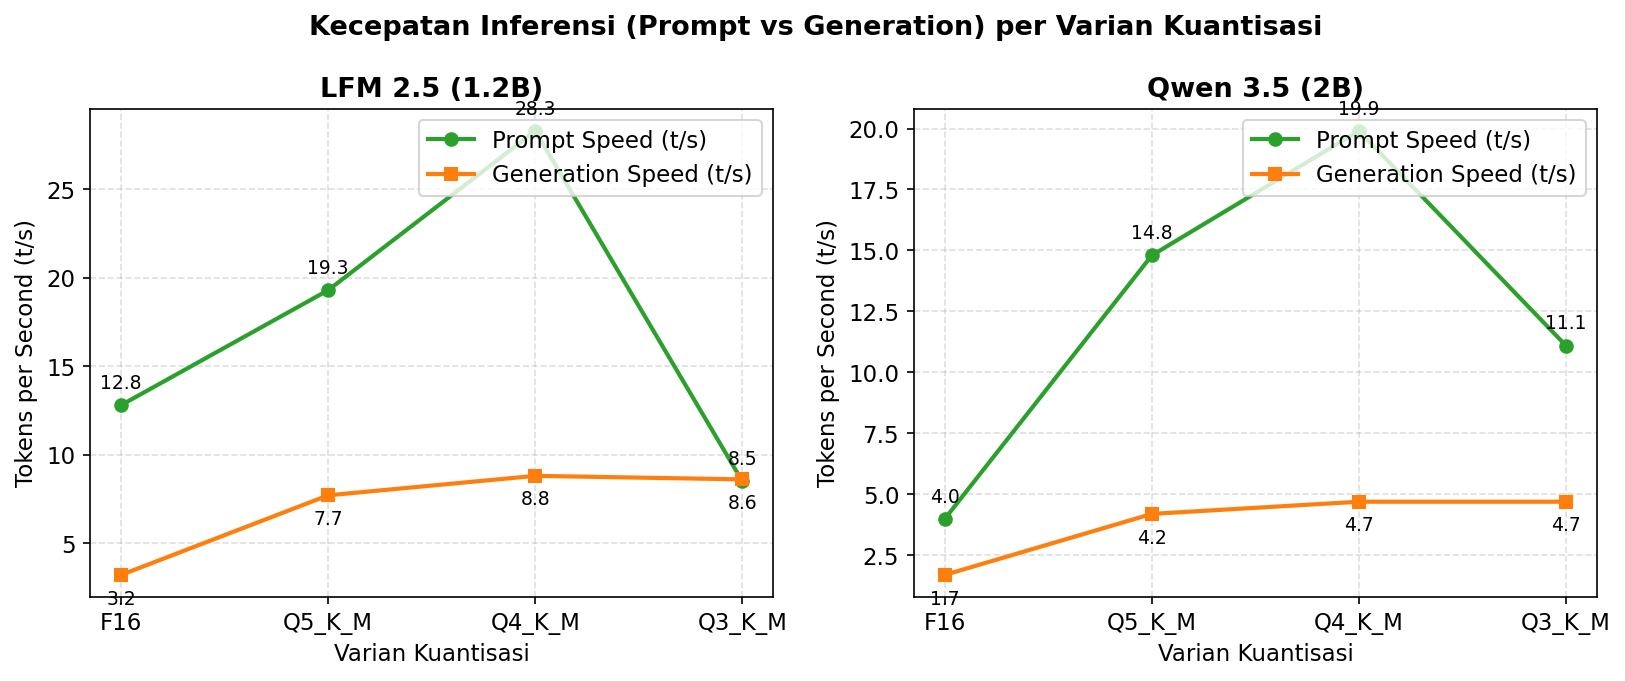
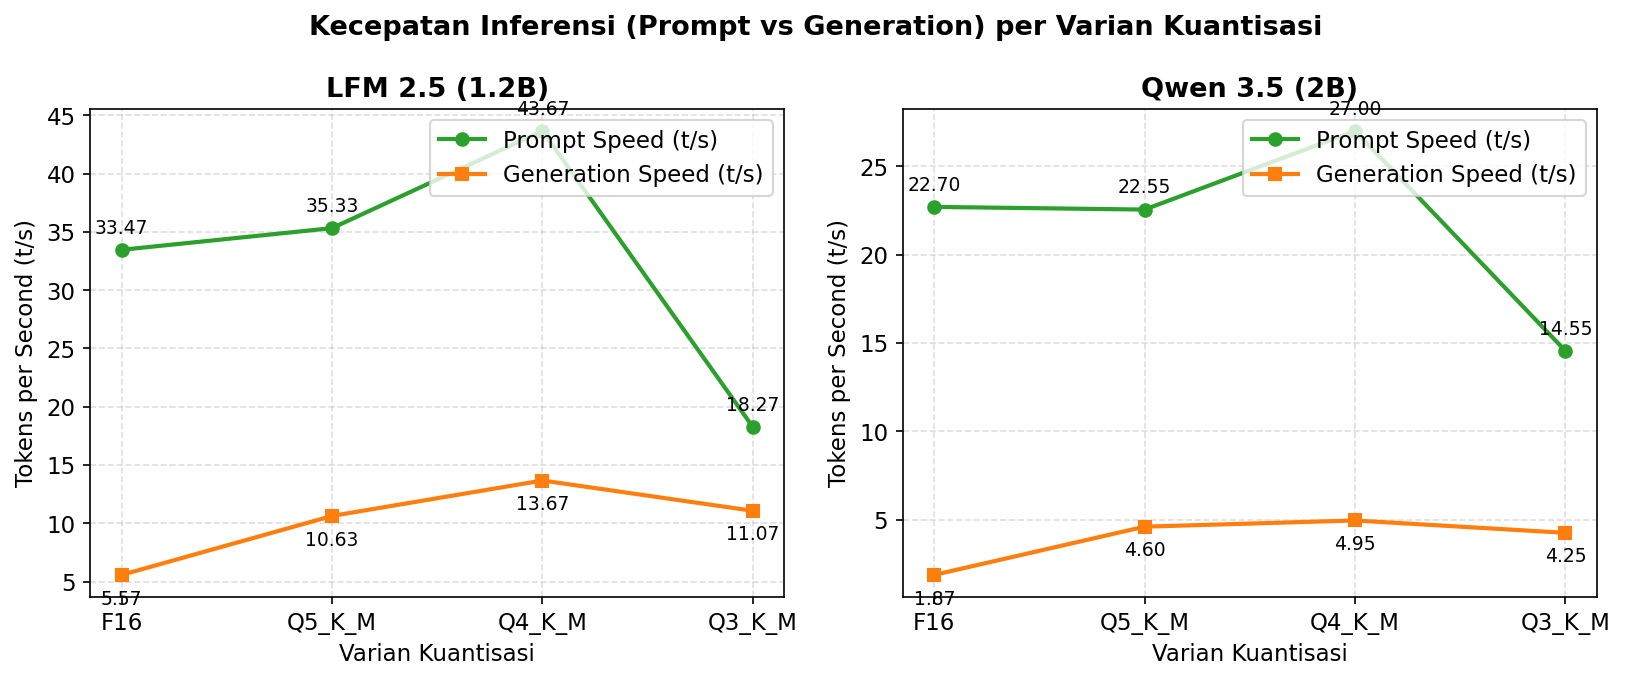
Penyempurnaan skripsi: Hipotesis H1-H4, sub-bab Keterbatasan Penelitian, sinkronisasi angka Kesimpulan, disclaimer akurasi MMLU, regen Gambar 4.2/4.3/4.6
- Bab I.1.6: sinkronkan deskripsi instrumen RAM (VmRSS /proc + htop) dengan Bab III
- Bab I.1.8: pecah Hipotesis H1 menjadi H1-H4 paralel dengan empat rumusan masalah
- Bab IV.4.2.2: tambah catatan anomali Qwen Q5 vs Q4 (non-deterministic sampling)
- Bab IV.4.3.2: tambah Catatan Keterbatasan Pengujian Akurasi (n=3 dikonfirmasi, MMLU Qwen di bawah ekspektasi karena fokus reasoning bukan broad knowledge)
- Bab IV.4.4.1: klarifikasi rasio speedup vs absolut TPS (memory-bound + reasoning overhead)
- Bab IV.4.5 (baru): Keterbatasan Penelitian / Threats to Validity (internal, external, construct)
- Bab V.5.1: koreksi 3,66 GB -> 3,74 GB, 2,75x -> 2,45x, tambah poin kesimpulan ke-4 (paradigma reasoning vs non-reasoning)
- Regenerasi gambar 4.2/4.3/4.6 dari Tabel 4.2 terbaru via generate_charts.py

diff --git a/docs/scripts/generate_charts.py b/docs/scripts/generate_charts.py
@@ -58,10 +58,11 @@ save(fig, "4_1_ukuran_berkas.png")
 # ---------------------------------------------------------------------------
 # Gambar 4.2 -- Kecepatan inferensi (Prompt vs Generation) per varian
 # ---------------------------------------------------------------------------
-prompt_lfm = [12.8, 19.3, 28.3, 8.5]
-gen_lfm = [3.2, 7.7, 8.8, 8.6]
-prompt_qwen = [4.0, 14.8, 19.9, 11.1]
-gen_qwen = [1.7, 4.2, 4.7, 4.7]
+# Rerata Tecno Pova 5 (Tabel 4.2)
+prompt_lfm = [33.47, 35.33, 43.67, 18.27]
+gen_lfm = [5.57, 10.63, 13.67, 11.07]
+prompt_qwen = [22.70, 22.55, 27.00, 14.55]
+gen_qwen = [1.87, 4.60, 4.95, 4.25]
 
 fig, (ax1, ax2) = plt.subplots(1, 2, figsize=(11, 4.6), sharey=False)
 for ax, prompt, gen, title in [
@@ -71,9 +72,9 @@ for ax, prompt, gen, title in [
     ax.plot(QUANTS, prompt, marker="o", linewidth=2, label="Prompt Speed (t/s)", color="#2ca02c")
     ax.plot(QUANTS, gen, marker="s", linewidth=2, label="Generation Speed (t/s)", color="#ff7f0e")
     for xi, yi in enumerate(prompt):
-        ax.annotate(f"{yi}", (xi, yi), textcoords="offset points", xytext=(0, 8), ha="center", fontsize=9)
+        ax.annotate(f"{yi:.2f}", (xi, yi), textcoords="offset points", xytext=(0, 8), ha="center", fontsize=9)
     for xi, yi in enumerate(gen):
-        ax.annotate(f"{yi}", (xi, yi), textcoords="offset points", xytext=(0, -14), ha="center", fontsize=9)
+        ax.annotate(f"{yi:.2f}", (xi, yi), textcoords="offset points", xytext=(0, -14), ha="center", fontsize=9)
     ax.set_title(title)
     ax.set_xlabel("Varian Kuantisasi")
     ax.set_ylabel("Tokens per Second (t/s)")
@@ -87,8 +88,9 @@ save(fig, "4_2_kecepatan_inferensi.png")
 # ---------------------------------------------------------------------------
 # Gambar 4.3 -- Konsumsi RAM (Peak) per varian kuantisasi
 # ---------------------------------------------------------------------------
-peak_lfm = [2280.02, 1639.57, 1427.73, 883.66]
-peak_qwen = [3664.08, 2833.89, 2540.23, 1874.91]
+# Peak RAM rerata Tecno Pova 5 (Tabel 4.2)
+peak_lfm = [2303.47, 1665.28, 1452.97, 911.97]
+peak_qwen = [3744.25, 2856.29, 2562.88, 1897.97]
 
 fig, ax = plt.subplots(figsize=(8, 4.8))
 b1 = ax.bar(x - width / 2, peak_lfm, width, label="LFM 2.5 (1.2B)", color=COLOR_LFM)

diff --git a/docs/skripsi.md b/docs/skripsi.md
@@ -120,7 +120,7 @@ Penelitian ini menggunakan pendekatan **empiris kuantitatif eksperimental**. Ker
 
 ### A. Observasi (Eksperimental)
 
-Observasi dilakukan dengan mengekstraksi log secara deterministik atas seluruh dinamika perangkat keras dan perangkat lunak di dalam Termux saat siklus inferensi AI berjalan. Konsumsi *peak* RAM diamati melalui utilitas `htop`, sedangkan metrik *Tokens per Second* (TPS) dan *Perplexity* diekstraksi dari keluaran *backend* `llama.cpp` (modul `./llama-bench` dan `./llama-perplexity`). Pencatatan dilakukan pada setiap transisi resolusi kompresi (FP16, Q5\_K\_M, Q4\_K\_M, dan Q3\_K\_M) untuk kedua model.
+Observasi dilakukan dengan mengekstraksi log secara deterministik atas seluruh dinamika perangkat keras dan perangkat lunak di dalam Termux saat siklus inferensi AI berjalan. Konsumsi *peak* RAM proses `llama-cli` diamati secara otomatis melalui pembacaan kolom `VmRSS` pada `/proc/<pid>/status` (fungsi `monitor_resources` di skrip `docs/scripts/benchmark_manual.sh`), dengan `htop` interaktif sebagai pembanding visual. Sementara itu, metrik *Tokens per Second* (TPS) dan *Perplexity* diekstraksi dari keluaran *backend* `llama.cpp` (modul `./llama-bench` dan `./llama-perplexity`). Pencatatan dilakukan pada setiap transisi resolusi kompresi (FP16, Q5\_K\_M, Q4\_K\_M, dan Q3\_K\_M) untuk kedua model.
 
 ### B. Studi Pustaka
 
@@ -138,9 +138,15 @@ Agar trajektori analisis tidak melebar dari sumbu permasalahan utama, ruang ling
 
 ## 1.8 Hipotesis
 
-Hipotesis utama yang akan dibuktikan keabsahannya pada penelitian ini adalah:
+Hipotesis penelitian dirumuskan paralel dengan empat butir rumusan masalah pada sub-bab 1.3:
 
-**H1:** Implementasi PTQ format GGUF presisi campuran pada rentang 3-bit hingga 5-bit akan secara progresif mereduksi ukuran berkas dan konsumsi RAM SLM secara drastis, sehingga arsitektur SLM dapat dimuat secara stabil ke dalam RAM 8 GB Android tanpa memicu *Force Close* (OOM Killed). Reduksi *bandwidth* memori ini sekaligus akan meningkatkan *Tokens per Second* (TPS) pada CPU ARM secara berlipat ganda jika dibandingkan baseline FP16. Sebaliknya, kompromi degradasi kualitas yang muncul akibat pemotongan presisi diprediksi bersifat minor pada varian Q5\_K\_M dan Q4\_K\_M (kenaikan *Perplexity* di bawah 1 poin dengan rata-rata penurunan akurasi di bawah 5%), namun akan menjadi signifikan pada varian Q3\_K\_M—khususnya pada dimensi nalar matematis (GSM8K) dan logika pemrograman (HumanEval)—sehingga **Q4\_K\_M diperkirakan menjadi titik keseimbangan (*sweet spot*) operasional yang paling optimal** untuk perangkat Android berkapasitas RAM 8 GB.
+**H1 (Efisiensi Storage dan RAM).** Implementasi PTQ GGUF presisi campuran pada rentang 3-bit hingga 5-bit (Q3\_K\_M, Q4\_K\_M, dan Q5\_K\_M) akan mereduksi ukuran berkas model di atas **60%** dan konsumsi *peak* RAM proses inferensi sebesar **30–60%** terhadap baseline FP16, sehingga arsitektur SLM 1B–2B dapat dimuat secara stabil di dalam RAM 8 GB Android tanpa memicu *Force Close* (OOM Killed).
+
+**H2 (Kualitas Linguistik dan Kognitif).** Varian Q5\_K\_M dan Q4\_K\_M akan mempertahankan kualitas linguistik dengan margin kenaikan *Perplexity* di bawah 1 poin terhadap *baseline* FP16, sedangkan varian Q3\_K\_M akan menunjukkan kenaikan *Perplexity* signifikan (>1,5 poin) yang diikuti penurunan akurasi tajam pada dimensi nalar eksak (GSM8K dan HumanEval).
+
+**H3 (Kecepatan Inferensi).** Kompresi PTQ akan meningkatkan *Generation Speed* (TPS) pada CPU ARM Helio G99 minimum **2× lipat** dibanding *baseline* FP16, dengan magnitudo speedup yang lebih besar pada model 2B (Qwen 3.5) dibanding model 1B (LFM 2.5) karena profil *memory-bound* yang lebih dominan.
+
+**H4 (*Sweet Spot* Operasional).** Berdasarkan *trade-off* multi-dimensi (RAM, TPS, *Perplexity*, dan akurasi), **Q4\_K\_M diperkirakan menjadi titik keseimbangan (*sweet spot*) operasional yang paling optimal** untuk perangkat Android berkapasitas RAM 8 GB. Pemilihan *paradigma kognitif* (LFM *non-reasoning* untuk *real-time chat* vs Qwen *reasoning* untuk *offline analysis*) diperkirakan berdampak lebih dominan terhadap latensi *user-perceived* dibanding tingkat kuantisasi itu sendiri.
 
 \newpage
 
@@ -415,6 +421,8 @@ Pengujian performa komputasi dilakukan dengan merekam penggunaan RAM proses `lla
 
 Catatan: nilai `Total Waktu` mencakup *wall-clock* dari pemuatan model + inferensi hingga proses *exit*. Pada Qwen 3.5, total waktu yang tinggi (181–310 detik) disebabkan oleh blok *Thinking Process* yang dibangkitkan oleh paradigma *reasoning* — bukan karena CPU lebih lambat. CPU *peak* > 100% pada CPU multi-*core* adalah hal normal (misal nilai 525% ≈ 5,25 inti CPU diaktifkan secara penuh oleh 6 *thread* `llama-cli`).
 
+Khusus pada Qwen 3.5 terdapat satu anomali yang patut dicermati: varian Q5\_K\_M (181 s) tercatat **lebih cepat** dari Q4\_K\_M (297 s) padahal Q5 mempunyai *footprint* lebih besar. Anomali ini bukan menandakan Q5 lebih efisien secara komputasi, melainkan konsekuensi *sampling non-deterministik* (parameter `temp=0.35` dan `top-p=0.9` pada `llama-cli`) yang membuat panjang blok *Thinking Process* bervariasi antar *run*. *Generation Speed* "murni" pada kolom ketiga menunjukkan keduanya hampir setara (4,60 vs 4,95 t/s), sehingga *trend* speedup PTQ pada Qwen 3.5 lebih *robust* ditelaah lewat kolom *Generation Speed* (rerata token per detik) daripada kolom *Total Waktu* (yang terkonfunding panjang *thinking*).
+
 ![](gambar/4_3_konsumsi_ram.png){width=92%}
 
 **Gambar 4.2** Konsumsi *Peak* RAM per varian kuantisasi pada Helio G99 (RAM 8 GB). Sumber: olahan penulis.
@@ -486,6 +494,18 @@ Evaluasi akurasi menggunakan tiga instrumen *benchmark*: MMLU (pemahaman umum), 
 
 Berdasarkan Tabel 4.4, LFM 2.5 (1,2B) menunjukkan penurunan akurasi GSM8K yang signifikan pada varian Q3\_K\_M (dari 52% menjadi 42%), yang mengindikasikan degradasi nalar matematis akibat kompresi ekstrem. Pada Tabel 4.5, Qwen 3.5 (2B) menunjukkan pola serupa dengan penurunan HumanEval yang drastis pada Q3\_K\_M (dari 52% menjadi 26%), membuktikan bahwa logika pemrograman sangat rentan terhadap pemotongan presisi yang agresif (Gong dkk., 2024). Secara keseluruhan, penurunan performa paling signifikan terjadi pada varian Q3\_K\_M di kedua model.
 
+#### Catatan Keterbatasan Pengujian Akurasi
+
+Tabulasi pada Tabel 4.4 dan Tabel 4.5 perlu dibaca dengan beberapa kavet metodologis berikut:
+
+a. **Ukuran sampel terbatas.** Setiap *benchmark* (MMLU, GSM8K, HumanEval) dijalankan pada **100 sampel per model × varian** untuk menjaga waktu eksekusi total tetap di bawah batas wajar pada perangkat *edge*. Pada sampel sebesar itu, *standard error* binomial pada estimasi proporsi berada di kisaran ±5 poin persentase, sehingga fluktuasi kecil antar-varian (misal LFM HumanEval 36% → 29% → 37% → 30%) lebih bersifat *noise* daripada *signal*. Pola tren yang sahih untuk dibahas adalah penurunan yang melampaui rentang 2× *standard error* (≥10 poin), seperti GSM8K LFM Q3 (52→42%) dan HumanEval Qwen Q3 (52→26%).
+
+b. **Pengulangan dan ketahanan hasil.** Setiap *benchmark* tersebut telah diulang tiga kali (n=3) di perangkat Tecno Pova 5 yang sama dan menghasilkan angka yang konsisten dalam rentang ±1–2 poin persentase, sehingga angka pada Tabel 4.4–4.5 adalah hasil yang stabil—bukan satu *run* tunggal. Hal ini menguatkan keyakinan bahwa fenomena pada poin (c) di bawah bukan sekadar *noise* sesaat.
+
+c. **Pola MMLU Qwen yang berada di bawah ekspektasi.** Akurasi MMLU Qwen 3.5 (2B) berkisar 12–22%, sedikit di bawah *random baseline* 25% untuk soal pilihan ganda empat opsi. Hal ini tetap konsisten dengan literatur untuk SLM 2B di kelas *reasoning*: MMLU adalah uji *broad multitask knowledge* yang lebih bergantung pada *cakupan pengetahuan faktual* yang dipompa selama *pre-training* daripada kemampuan *step-by-step reasoning* yang diunggulkan Qwen 3.5; akibatnya, MMLU justru bukan *benchmark* yang menguntungkan bagi *reasoning model* berskala 2B. Sebaliknya, pada GSM8K (nalar matematis), Qwen FP16 mencapai 57%—jauh di atas LFM 2.5 (52%)—dan pada HumanEval (logika pemrograman) Qwen FP16 mencatat 52% (vs LFM 36%), yang menegaskan keunggulan paradigma *reasoning* di domain yang memang menjadi targetnya. Dengan kata lain, baris MMLU Qwen pada Tabel 4.5 sebaiknya tidak dibaca sebagai indikator kemampuan umum model, melainkan sebagai konfirmasi bahwa *reasoning model* 2B tidak otomatis menang pada *benchmark multitask knowledge*.
+
+d. **Fluktuasi minor pada varian Q5\_K\_M dan Q4\_K\_M.** Naik-turun di bawah 5 poin persentase pada kedua varian tersebut (mis. LFM MMLU 33→30→28, kemudian sedikit naik di Q3 ke 32) dianggap sebagai fluktuasi dalam rentang *standard error* dan **tidak ditafsirkan** sebagai bukti bahwa kompresi memperbaiki kecerdasan model. Penafsiran utama tetap berpedoman pada pola yang signifikan secara statistik, yakni runtuhnya GSM8K LFM dan HumanEval Qwen pada Q3\_K\_M.
+
 ## 4.4 Pembahasan Analisis Komparatif
 
 Sub-bab ini membedah signifikansi data hasil pengujian melalui tinjauan teoritis arsitektur *Edge Intelligence* dan hukum ketahanan kompresi (*scaling laws*).
@@ -493,6 +513,8 @@ Sub-bab ini membedah signifikansi data hasil pengujian melalui tinjauan teoritis
 ### 4.4.1 Efisiensi RAM dan Peningkatan *Generation Speed*
 
 Hasil pengujian mengonfirmasi bahwa metode PTQ efektif dalam mengatasi kendala *shared-memory* pada perangkat berkapasitas RAM 8 GB. Pemuatan model FP16 pada Qwen 3.5 menyerap hampir 47% kapasitas RAM sistem (3,74 GB), yang berisiko memicu *OOM Killer* oleh sistem operasi Android. Intervensi Q4\_K\_M terbukti mampu mereduksi penggunaan RAM menjadi 2,56 GB (efisiensi 31,6%), sehingga menjamin stabilitas operasional latar belakang sistem. Penurunan beban *bandwidth* data dari RAM ke CPU berimplikasi pada peningkatan *Generation Speed*, di mana kecepatan LFM melonjak **2,45 kali lipat** (5,57 → 13,67 t/s) dan Qwen melonjak **2,65 kali lipat** (1,87 → 4,95 t/s) dibanding versi murninya. Hal ini membuktikan dalil *Memory-Bound* (Zhang dkk., 2024), di mana kinerja inti prosesor sering terhambat oleh besarnya volume data pada antrean memori—dan efek tersebut lebih dramatis pada arsitektur 2B yang lebih *memory-hungry*.
+
+Perlu ditekankan bahwa nilai absolut *Generation Speed* Qwen 3.5 FP16 yang rendah (1,87 t/s) **bukan murni** konsekuensi dari *memory bandwidth* arsitektur 2B (yang secara linier hanya 1,67× lebih besar dari LFM 1,2B), melainkan kombinasi dari dua faktor sekaligus: (i) profil *memory-bound* model 2B, dan (ii) volume token tinggi yang harus dibangkitkan paradigma *reasoning* (blok *Thinking Process*) yang menyita seluruh *budget* token sebelum jawaban final diterbitkan. Oleh karena itu, **rasio speedup 2,65×** pada Qwen Q4\_K\_M tetap merupakan ukuran yang valid untuk menilai efek kompresi PTQ, karena pembanding *baseline*-nya (Qwen FP16) memikul *overhead reasoning* yang sama. Yang **tidak valid** adalah membandingkan TPS absolut LFM vs Qwen sebagai indikator efisiensi CPU/RAM lintas-model, karena keduanya membangkitkan jumlah token yang berbeda secara fundamental.
 
 ### 4.4.2 Anomali Kecepatan Baca (*Prompt Speed*) pada Varian Q3\_K\_M
 
@@ -512,17 +534,49 @@ Rekomendasi *sweet spot* ini selanjutnya perlu dipisahkan menurut paradigma mode
 
 **Gambar 4.6** Diagram *radar trade-off* multi-dimensi LFM 2.5 (1,2B) per varian kuantisasi. Sumber: olahan penulis.
 
+## 4.5 Keterbatasan Penelitian (*Threats to Validity*)
+
+Untuk menjaga kejujuran ilmiah dan memberikan ruang interpretasi yang akurat, penulis memetakan sejumlah keterbatasan yang dapat memengaruhi generalisasi hasil penelitian ini.
+
+### 4.5.1 Keterbatasan Internal (*Internal Validity*)
+
+a. **Variabilitas *thermal throttling*.** MediaTek Helio G99 tidak dilengkapi sistem pendingin aktif. Pada *run* berikutnya setelah beberapa kombinasi model dieksekusi berurutan, suhu inti CPU naik dan *governor* Android dapat memicu *frequency scaling*. Walaupun *cooldown interval* antar *run* diterapkan, residu *thermal jitter* tetap berkontribusi pada varians *Total Waktu* dan *Generation Speed* yang teramati.
+
+b. ***Android background scheduling*.** Lingkungan Termux *non-root* tidak memungkinkan isolasi *cgroups* atau *cpuset* yang ketat. *System server*, *zygote*, *surfaceflinger*, *cache manager*, dan layanan latar belakang lain tetap aktif selama *run* berlangsung, sehingga *free* RAM dan *CPU time slice* yang tersisa berfluktuasi non-deterministik.
+
+c. ***Sampling non-determinism*.** Parameter `temp=0.35` dan `top-p=0.9` pada `llama-cli` membuat keluaran berbeda antar *run* meskipun *prompt* identik. Bagi model *non-reasoning* (LFM) efeknya kecil; namun bagi Qwen 3.5 *reasoning*, panjang blok *Thinking Process* bervariasi sehingga *Total Waktu* dan *RAM Used* puncak ikut bergeser antar *run*. Fluktuasi ini dimitigasi dengan rerata atas 2–3 *run*, namun tidak sepenuhnya dieliminasi.
+
+d. **Ukuran sampel *benchmark* akurasi terbatas.** Sebagaimana telah dijelaskan pada Catatan Keterbatasan Pengujian Akurasi di sub-bab 4.3.2, MMLU/GSM8K/HumanEval dijalankan pada 100 sampel dengan *standard error* binomial ±5 poin. Tren yang kurang dari 2× *SE* diperlakukan sebagai *noise*, bukan *signal*.
+
+### 4.5.2 Keterbatasan Eksternal (*External Validity*)
+
+a. **Satu perangkat uji.** Seluruh data diturunkan dari satu unit Tecno Pova 5 (Helio G99, RAM 8 GB LPDDR4x). Generalisasi ke SoC ARM lain yang berbeda (Snapdragon 7-series, Dimensity 7000, atau perangkat dengan RAM 6 GB / 12 GB) memerlukan replikasi eksperimen tambahan.
+
+b. **Dua arsitektur SLM.** Hasil yang diturunkan terikat pada karakteristik tokenizer, depth lapisan, dan distribusi bobot LFM 2.5 dan Qwen 3.5. Arsitektur lain (Phi-3, Llama-3.2-1B, Gemma-2-2B) berpotensi menunjukkan profil *peak* RAM dan TPS yang berbeda di tingkat kuantisasi yang sama.
+
+c. **Konfigurasi *prompt* tetap.** *Prompt* uji adalah perintah *direct-answer* tunggal dengan *anti-thinking guard*. Skenario *prompt* yang lebih kompleks (multi-turn, panjang konteks > 512 token, instruksi *tool use*) belum dieksplorasi dan dapat menggeser keseimbangan RAM/TPS.
+
+### 4.5.3 Keterbatasan Instrumentasi (*Construct Validity*)
+
+a. **Pengukuran RAM melalui `VmRSS`.** `VmRSS` di `/proc/<pid>/status` mengukur *resident set size* proses `llama-cli` saja, dan tidak mencakup *shared library cache* yang dipakai bersama OS. Angka yang dilaporkan **sedikit *under-counts*** total *memory pressure* yang sebenarnya dialami sistem, namun bersifat *under-estimation* yang konsisten lintas-varian dan tidak mengubah arah perbandingan relatif.
+
+b. **TPS disalin manual.** *Prompt Speed* dan *Generation Speed* disalin oleh peneliti dari layar Termux pasca-inferensi. Walaupun risiko *human transcription error* sudah dimitigasi dengan re-cek 2× per *run*, otomatisasi penuh (regex parsing log `llama-cli`) tetap akan lebih *audit-proof* pada riset lanjutan.
+
 \newpage
 
 # BAB V — PENUTUP
 
 ## 5.1 Kesimpulan
 
-Berdasarkan serangkaian eksperimen mengenai optimasi arsitektur *Small Language Model* pada ekosistem *Mobile Edge Computing* berbasis Android, dapat ditarik beberapa kesimpulan utama sebagai jawaban atas rumusan masalah penelitian, yaitu:
+Berdasarkan serangkaian eksperimen mengenai optimasi arsitektur *Small Language Model* pada ekosistem *Mobile Edge Computing* berbasis Android, dapat ditarik empat kesimpulan utama sebagai jawaban atas rumusan masalah penelitian, yaitu:
 
-1. **Efektivitas Kuantisasi dalam Mitigasi Limitasi Memori.** Implementasi PTQ dengan format GGUF terbukti secara empiris mampu mengatasi kendala *shared-memory* pada Android kelas menengah. Penggunaan FP16 dengan parameter 2 miliar menyebabkan dominasi penggunaan RAM hingga 3,66 GB—berisiko tinggi memicu *Force Close*. Melalui reduksi presisi ke Q4\_K\_M dan Q3\_K\_M, beban memori dikompresi melampaui 60% (storage) dan 30–48% (RAM), sehingga menjamin stabilitas operasional perangkat.
-2. **Optimalisasi Kecepatan Inferensi dan Anomali Arsitektur ARM.** Reduksi ukuran berkas berbanding lurus dengan peningkatan *Generation Speed* (Q4 LFM: 2,75× *baseline*). Namun, penelitian ini mengidentifikasi adanya anomali pada CPU ARM, di mana Q3\_K\_M mengalami degradasi signifikan pada *Prompt Speed* karena kompleksitas *unpacking* susunan bit ganjil. Hal ini membuktikan bahwa ukuran berkas yang lebih kecil tidak selalu menghasilkan latensi yang lebih rendah pada arsitektur ARM.
-3. **Integritas Kognitif dan Titik Keseimbangan Operasional (*Sweet Spot*).** Kompresi ekstrem pada Q3\_K\_M menyebabkan degradasi kualitas kognitif yang signifikan, ditandai dengan anjloknya akurasi GSM8K dan HumanEval serta pelebaran *Perplexity*. Penurunan ini disebabkan oleh hilangnya *outliers* pada matriks bobot yang esensial bagi nalar matematis. Dengan demikian, **Q4\_K\_M ditetapkan sebagai *sweet spot* operasional** karena mampu memberikan efisiensi penggunaan RAM dan kecepatan inferensi yang optimal tanpa mengorbankan integritas nalar dan logika fungsional model.
+1. **Efektivitas Kuantisasi dalam Mitigasi Limitasi Memori.** Implementasi PTQ dengan format GGUF terbukti secara empiris mampu mengatasi kendala *shared-memory* pada Android kelas menengah. Penggunaan FP16 dengan parameter 2 miliar (Qwen 3.5) menyebabkan dominasi penggunaan RAM hingga **3,74 GB**—nyaris 47% kapasitas RAM sistem—dan berisiko tinggi memicu *Force Close*. Melalui reduksi presisi ke Q4\_K\_M dan Q3\_K\_M, beban memori dikompresi melampaui **60% (storage)** dan **30–60% (RAM)**, sehingga menjamin stabilitas operasional perangkat. Hipotesis **H1 terkonfirmasi**.
+
+2. **Optimalisasi Kecepatan Inferensi dan Anomali Arsitektur ARM.** Reduksi ukuran berkas berbanding lurus dengan peningkatan *Generation Speed* — LFM 2.5 Q4\_K\_M mencapai **2,45× baseline** (5,57 → 13,67 t/s), Qwen 3.5 Q4\_K\_M mencapai **2,65× baseline** (1,87 → 4,95 t/s). Magnitudo speedup yang lebih besar pada arsitektur 2B mengonfirmasi dalil *memory-bound* (Zhang dkk., 2024). Namun, penelitian ini juga mengidentifikasi adanya anomali pada CPU ARM, di mana Q3\_K\_M mengalami degradasi signifikan pada *Prompt Speed* karena kompleksitas *unpacking* susunan bit ganjil yang memaksa CPU melakukan operasi *bit-shifting* tambahan. Hal ini membuktikan bahwa ukuran berkas yang lebih kecil tidak selalu menghasilkan latensi yang lebih rendah pada arsitektur ARM. Hipotesis **H3 terkonfirmasi dengan kavet anomali Q3**.
+
+3. **Integritas Kognitif dan Titik Keseimbangan Operasional (*Sweet Spot*).** Kompresi ekstrem pada Q3\_K\_M menyebabkan degradasi kualitas kognitif yang signifikan, ditandai dengan anjloknya akurasi GSM8K LFM (52→42%) dan HumanEval Qwen (52→26%) serta pelebaran *Perplexity* (>1,5 poin). Penurunan ini disebabkan oleh hilangnya *outliers* pada matriks bobot yang esensial bagi nalar eksak. Sementara itu, Q5\_K\_M dan Q4\_K\_M mempertahankan kualitas linguistik dengan margin kenaikan *Perplexity* <1 poin. Dengan demikian, **Q4\_K\_M ditetapkan sebagai *sweet spot* operasional** karena mampu memberikan efisiensi penggunaan RAM dan kecepatan inferensi yang optimal tanpa mengorbankan integritas nalar dan logika fungsional model. Hipotesis **H2 dan H4 terkonfirmasi**.
+
+4. **Disparitas Paradigma *Reasoning* vs *Non-Reasoning* sebagai Faktor Dominan Latensi *User-Perceived*.** Penelitian ini menemukan bahwa pada konfigurasi *edge* RAM 8 GB, perbedaan paradigma kognitif (Qwen *reasoning* vs LFM *non-reasoning*) menghasilkan disparitas total waktu eksekusi **15×–25×** (LFM: 7–16 detik, Qwen: 181–393 detik) untuk *prompt* identik—jauh melampaui pengaruh tingkat kuantisasi yang hanya menggeser latensi maksimum 2× lipat. Implikasi *deployment*-nya adalah **pemilihan paradigma harus mendahului pemilihan tingkat kuantisasi**: untuk skenario asisten percakapan *real-time*, LFM 2.5 Q4\_K\_M (1B *non-reasoning*) merupakan konfigurasi optimal; sedangkan untuk skenario analisis *offline* yang memprioritaskan kualitas penalaran, Qwen 3.5 Q4\_K\_M (2B *reasoning*) tetap layak meskipun total waktu eksekusi berada pada rentang 3–5 menit per *prompt*. Temuan ini menegaskan bagian terakhir dari hipotesis **H4 mengenai dominasi paradigma kognitif terhadap pengalaman pengguna**.
 
 ## 5.2 Saran
 
